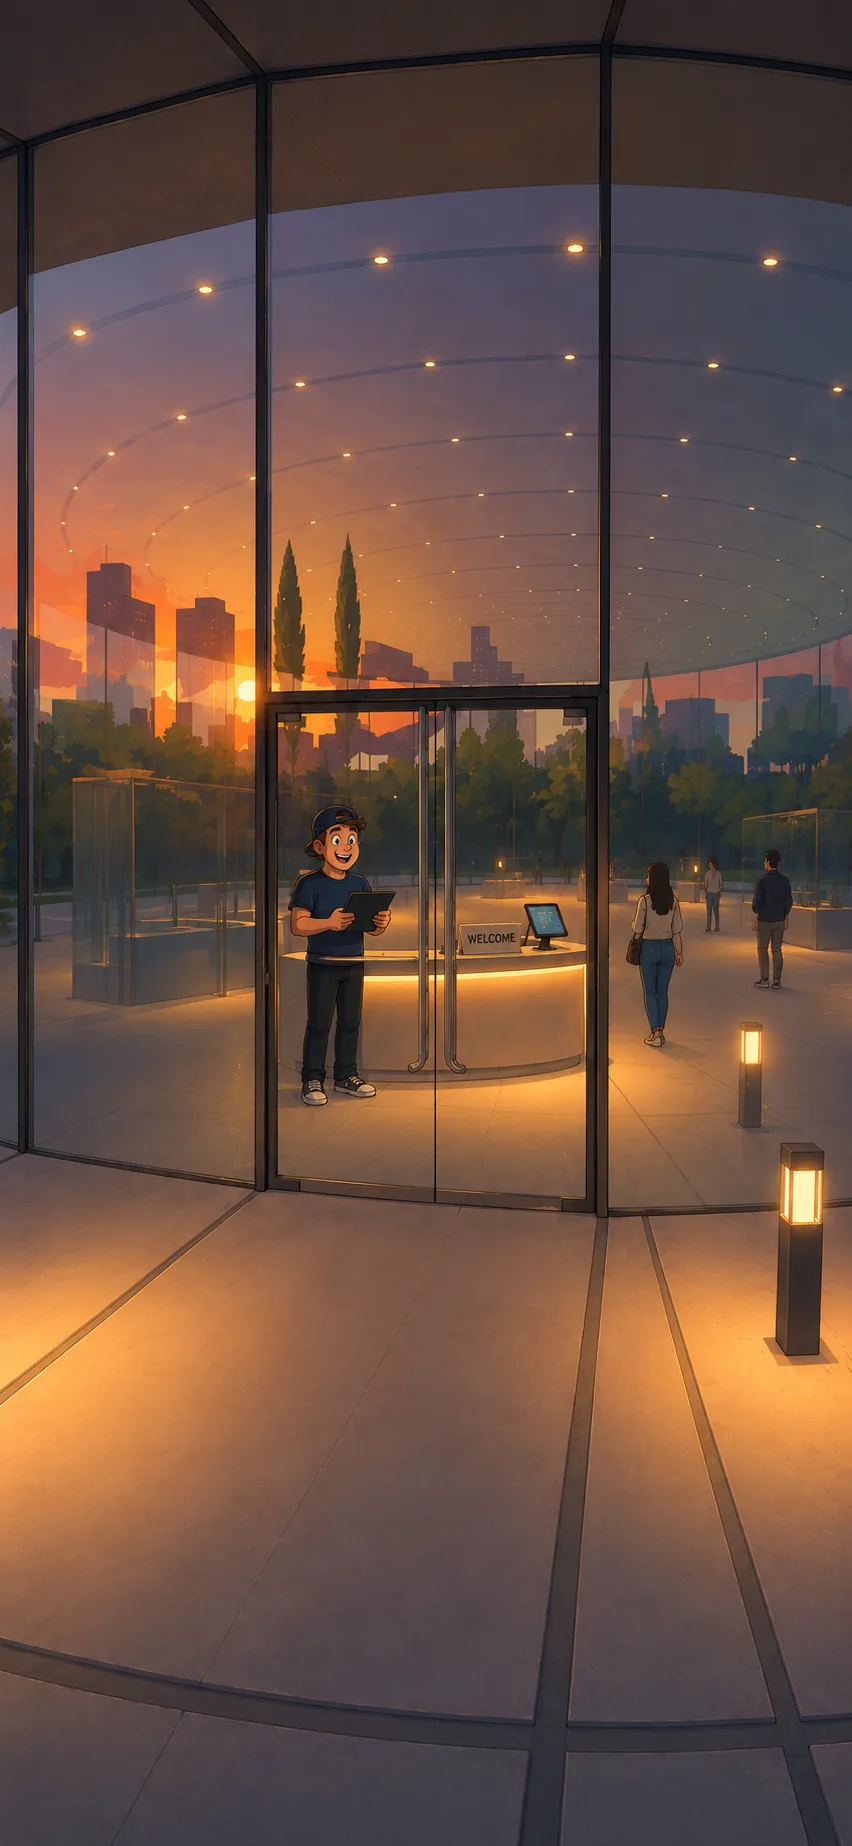
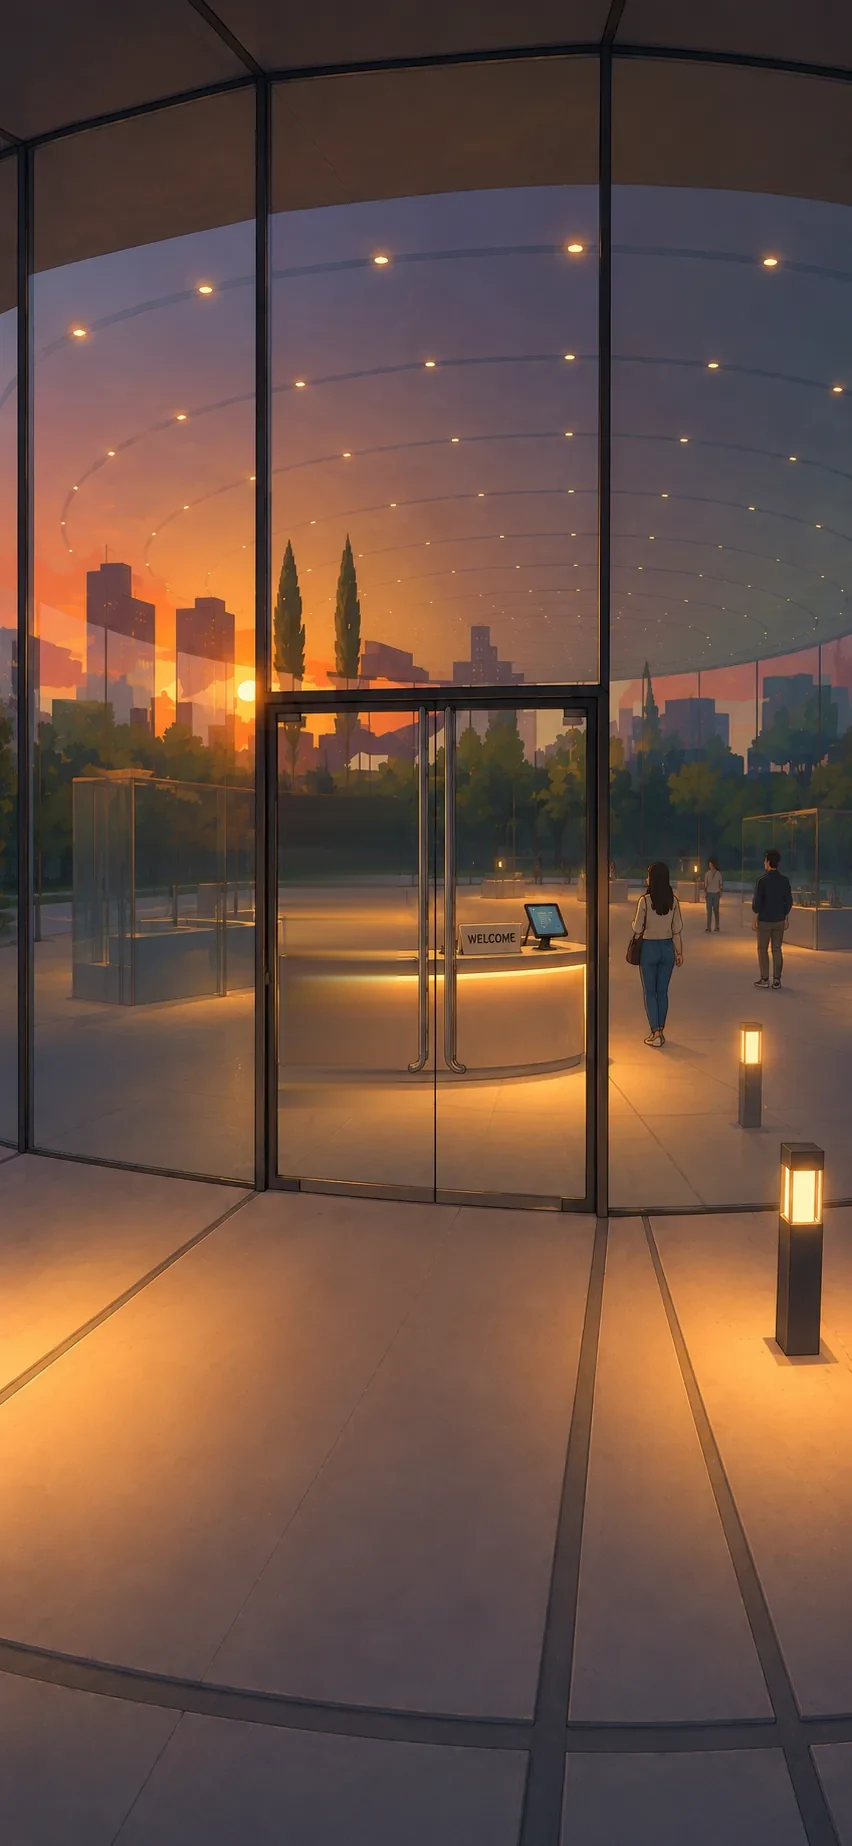
Ingresso: via il figurante col tablet, in scena Lucas resta uno (#125)
Nel fondale dell'ingresso c'era, in mezzo alla porta, un ragazzo col cappellino
girato e il tablet: identico a Lucas, che in quella scena e' gia' li' come NPC.
A schermo sembravano due.

Il figurante e' stato tolto ricostruendo il fondo dietro di lui. Dietro la
porta l'immagine e' fatta di bande orizzontali (il parco, il bordo del banco,
la fascia di luce, il pavimento), quindi la zona e' stata riscritta riga per
riga interpolando fra il fondo pulito a sinistra e quello a destra, con i bordi
raccordati: niente da inventare, solo le stesse bande che continuano. Le
colonne sorgente a destra si fermano prima del maniglione della porta, se no
ci finiva dentro una sbarra verticale finta.

Il manifest ora dice che il file nel repo e' ritoccato: reimportandolo dal
sorgente, il figurante torna.

Claude-Session: https://claude.ai/code/session_018fcRC3JWVwyXoqb9uG6XMF

Changed region(s): [[0.3357, 0.4323, 0.4577, 0.6176]]

diff --git a/index.html b/index.html
@@ -22,7 +22,7 @@
   gtag('js', new Date());
   gtag('config', 'G-SYX1RZLNNE');
 </script>
-<link rel="stylesheet" href="./game/engine.css?v=108">
+<link rel="stylesheet" href="./game/engine.css?v=109">
 </head>
 <body>
 <div id="stage">
@@ -319,8 +319,8 @@
   </div>
 </div>
 
-<script src="./game/analytics.js?v=108"></script>
-<script src="./game/engine.js?v=108"></script>
+<script src="./game/analytics.js?v=109"></script>
+<script src="./game/engine.js?v=109"></script>
 <script>
 (function () {
   var params = new URLSearchParams(location.search);
@@ -410,7 +410,7 @@
   // La banca dei pronostici sta in un file suo: e' grande quanto tutto il resto
   // dello script (29 domande x 4 stili di battute) e cambia per conto proprio.
   var prendi = function (nome) {
-    return fetch('./game/' + nome + '?v=108', { cache: 'no-cache' })
+    return fetch('./game/' + nome + '?v=109', { cache: 'no-cache' })
       .then(function (r) { if (!r.ok) throw new Error(nome + ': ' + r.status); return r.json(); });
   };
   // backend.json e' facoltativo: senza, la partita si chiude lo stesso e

diff --git a/docs/manifest-asset.md b/docs/manifest-asset.md
@@ -16,7 +16,7 @@ Uno sfondo intero per schermata, sempre presente sotto ogni altra cosa.
 | File | Scena | Uso |
 |---|---|---|
 | `bg_esterno_vialetto` | S0 | Primo frame assoluto del gioco, prima di qualunque interazione. **Attenzione**: esistono due versioni di questo esterno e di quello dell'ingresso — quella buona e' il ridisegno consegnato il 30 agosto (vialetto 941x1672, ingresso 852x1846). Un giro di ripristino ha rimesso per sbaglio la versione vecchia, piu' piatta e a blocchi: prima di sostituirli, guardarli |
-| `bg_esterno_ingresso` | S0 | Dietro Lucas e il terminale durante la registrazione |
+| `bg_esterno_ingresso` | S0 | L'ingresso: dietro Lucas che accoglie, e dietro il terminale della registrazione. **Il file nel repo e' ritoccato**: nel disegno originale c'era un figurante col tablet in mezzo alla porta, identico a Lucas, e in scena sembravano due. E' stato tolto ricostruendo il fondo. Se un domani l'immagine viene reimportata dal sorgente, torna anche lui |
 | `bg_macintosh` | S0 | Il banco della registrazione col Mac gia' dentro l'immagine: e' il fondale di registrazione e badge (li' sfocato). Il terminale non e' disegnato — lo incolla il motore sopra il vetro del CRT, in pixel (`SCHERMO_FONDALE` in engine.js). Se l'immagine viene ridisegnata, quelle quattro misure vanno rifatte. `prop_mac_terminale` resta nel repo ma non lo usa piu' nessuno |
 | `bg_lobby_z1_tenda` | S1 | Zona 1 della lobby. Ha l'hotspot ENTRA al centro. **L'apertura si anima in codice** (fade o split delle due metà dell'immagine), non serve un secondo fondale "tenda aperta" |
 | `bg_halloffame_frontale` | S1 | Zona 2, la parete della Hall of Fame con i tre quadri dei vincitori gia' dentro l'immagine: non e' un template, i nomi sono disegnati. Le tre aree toccabili in `story.json` sono misurate su questa immagine — se viene ridisegnata, ricontrollarle |
